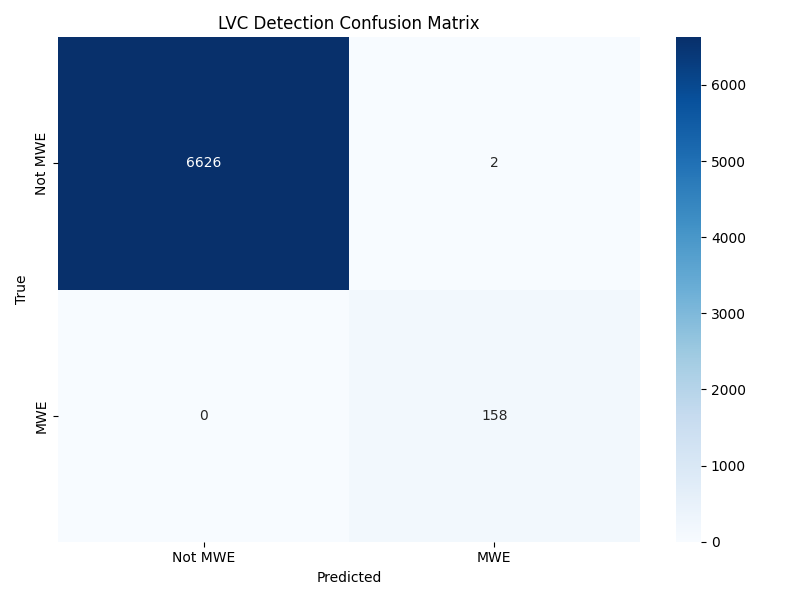
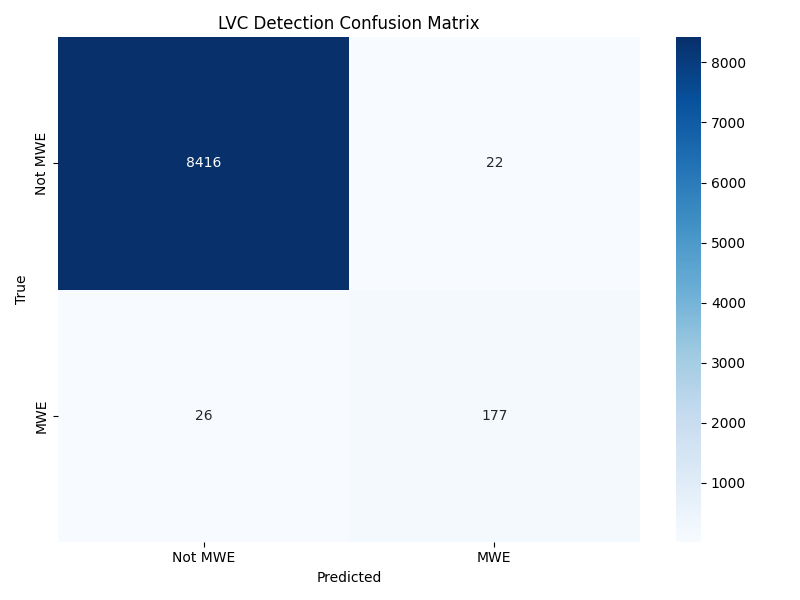
new nicer code

diff --git a/mwe_ud_hindi/scripts/vmwe.py b/mwe_ud_hindi/scripts/vmwe.py
@@ -8,8 +8,6 @@ from sklearn.metrics import precision_recall_fscore_support, confusion_matrix, a
 import datetime
 
 # Print current information
-print(f"Current Date and Time (UTC): 2025-05-07 11:52:55")
-print(f"Current User's Login: DivyG007")
 print("")
 
 # #### takes .cupt file
@@ -18,6 +16,9 @@ data_file = open("../data/dev_cause.cupt", "r", encoding="utf-8")
 # data_file = open("data/dev.cupt", "r", encoding="utf-8") 
 data = data_file.read()
 list_tokenlist = parse(data)
+for line in list_tokenlist:
+    for token in line:
+        token["parseme:mwe"] = "*"
 
 va_ending = ['वा', 'वाती', 'वाता', 'वाते', 'वाया', 'वाई', 'वायी', 'वाये', 'वाए', 'वाना', 'वाने', 'वानी']
 non_verb = ['हैं', 'है', 'चाह', 'चुक','था','हो', 'रह', 'सक', 'वाला', 'चुका', 'चाहिये', 'चाहिए', 'पा', 'पड़','पड', 'पड़','पड़ेगा', 'चहिए']
@@ -67,7 +68,7 @@ def tag_lvc(sentences):
             if token['xpos'] == 'VM':
                 next_id = token['new_id']  ### initializing a new variable
                 for nt in sentence:  ### nt-> nount_token
-                    if (nt['head'] == token['id']) and (nt['xpos'] == 'NN') and nt['deprel'] == 'compound'and (nt['parseme:mwe']=='*'):
+                    if (nt['head'] == token['id']) and (nt['xpos'] == 'NN') and nt['deprel'] == 'compound'and (nt['parseme:mwe']== '*'):
                             ### Causative LVCs  -- only va causative
                         if token['form'] !=None and token['feats'] !=None  and any(token['form'].endswith(v) for v in va_ending):
 #                         if token['form'] !=None and token['feats'] !=None  and 'Cause' in token['feats']: ## tags all causatives

diff --git a/mwe_ud_hindi/scripts/feature_cause.py b/mwe_ud_hindi/scripts/feature_cause.py
@@ -3,7 +3,7 @@
 from conllu import parse
 
 ### change the file name and path accordingly
-data_file = open("../data/dev.cupt", "r", encoding="utf-8") 
+data_file = open("../data/train.cupt", "r", encoding="utf-8") 
 data = data_file.read()
 list_tokenlist = parse(data)
 # print(list_tokenlist)
